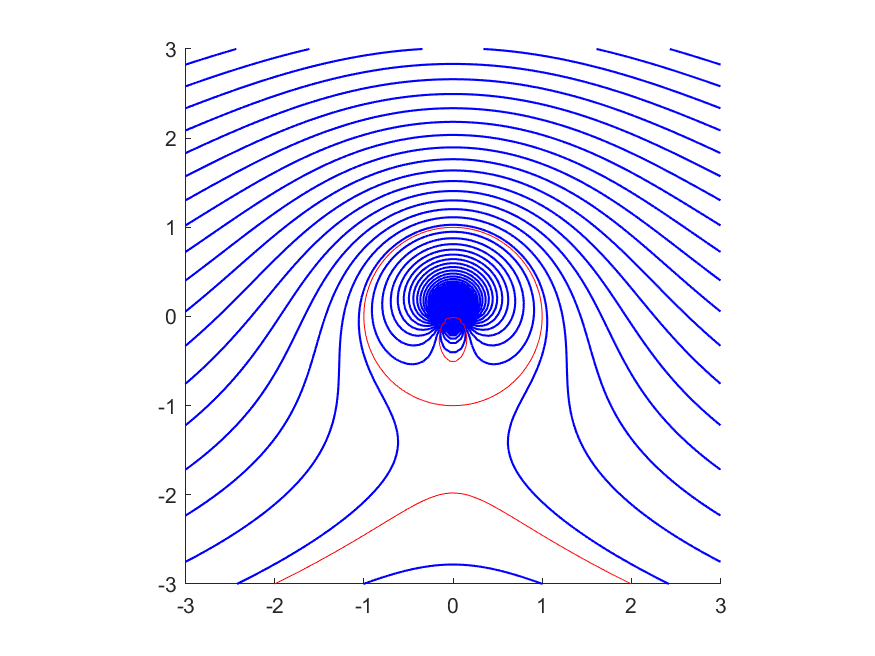
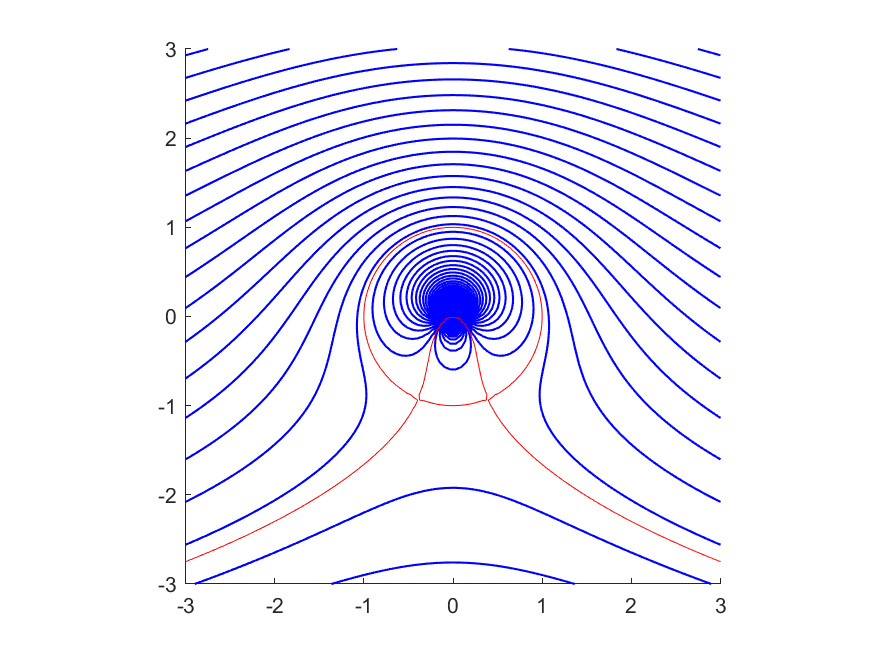
update

diff --git a/Flow_at_wall_angle.m b/Flow_at_wall_angle.m
@@ -5,20 +5,20 @@ rho = linspace(0.001, 3, 20);
 
 [THETA, RHO] = meshgrid(theta, rho);
 A = 1;
-n = 0.5;
+n = 2;
 psi = A*(RHO.*n).*sin(n.*THETA);
 phi = A*(RHO.*n).*cos(n.*THETA);
 
 X = RHO.*cos(THETA);
 Y = RHO.*sin(THETA);
 
-% figure1 = figure; 
+figure1 = figure; 
 h = polar(X, Y);
 hold all;
 contour(X, Y, psi, 20, '-b', linewidth=2);
-contour(X, Y, phi, 20, '--r', linewidth=2);
+% contour(X, Y, phi, 20, '--r', linewidth=2);
 set(h,'Visible','off')
 axis off
 axis image
-% saveas(figure1,'finename.png')
+saveas(figure1,'flow_past_a_90degree_wall.png')
 

diff --git a/flow_past_a_half_body.m b/flow_past_a_half_body.m
@@ -14,15 +14,15 @@ phi = U*R.*cos(Theta) + (m/(2*pi))*log(R) ;
 
 
 
-% figure1 = figure; 
+figure1 = figure; 
 
 hold all;
-contour(X, Y, psi, 100, '-b', linewidth=1);
+contour(X, Y, psi, 99, '-b', linewidth=1);
 plot(-2.5/pi, 0, '-ro')
-% contour(X, Y, phi, 20, '--r', linewidth=2);
+% contour(X, Y, phi, 99, '--r', linewidth=2);
 pbaspect([1 1 1]);
-% set(h,'Visible','off')
-% axis off
-% axis image
-% saveas(figure1,'finename.png')
+
+axis off
+axis image
+saveas(figure1,'flow_past_a_half_body.png')
 

diff --git a/flow_past_a_cylinder_with_circulation.m b/flow_past_a_cylinder_with_circulation.m
@@ -6,7 +6,7 @@ x = linspace(-3, 3, 100);
 [X, Y] = meshgrid(x, y);
 U = 1;
 a = 1;
-gamma = 4*pi*a*U + 1 ;
+gamma = 4*pi*a*U - 1 ;
 
 R = sqrt(X.^2 + Y.^2) ;
 Theta = atan2(Y, X) ;
@@ -22,7 +22,7 @@ hold all;
 contour(X, Y, psi, 99, '-b', linewidth=1);
 hold on; hold all; 
 contour(X,Y, psi, [0 0 ], '-r')
-% contour(X, Y, phi, 100, '--r', linewidth=2);
+% contour(X, Y, phi, 100, '--g', linewidth=2);
 pbaspect([1 1 1]);
 axis image
 saveas(figure1,'flow_past_a_cylinder_with_circulation.png')

diff --git a/Irrotational_vortex.m b/Irrotational_vortex.m
@@ -1,3 +1,5 @@
+clear;
+clc;
 y = linspace(-1, 1, 100);
 x = linspace(-1, 1, 100);
 
@@ -13,8 +15,7 @@ hold all;
 contour(X, Y, psi, 20, '-b', linewidth=2);
 contour(X, Y, phi, 20, '--r', linewidth=2);
 pbaspect([1 1 1]);
-% set(h,'Visible','off')
 % axis off
 % axis image
-% saveas(figure1,'finename.png')
+% saveas(figure1,'irrotational_vortex.png')
 

diff --git a/flow_past_a_cylinder.m b/flow_past_a_cylinder.m
@@ -14,7 +14,7 @@ phi = U*(R + (a^2)./R).*cos(Theta);
 
 
 
-% figure1 = figure; 
+figure1 = figure; 
 
 hold all;
 contour(X, Y, psi, 100, '-b', linewidth=1);
@@ -24,5 +24,5 @@ contour(X, Y, psi, [0 0]);
 pbaspect([1 1 1]);
 axis off
 axis image
-% saveas(figure1,'finename.png')
+saveas(figure1,'flow_past_a_cylinder.png')
 

diff --git a/doublet_flow.m b/doublet_flow.m
@@ -11,7 +11,7 @@ phi =  X./(X.^2 + Y.^2) ;
 psi =  -Y./(X.^2 + Y.^2) ;
 
 
-% figure1 = figure; 
+figure1 = figure; 
 
 hold all;
 contour(X, Y, psi, 49, '-b', linewidth=2);
@@ -20,5 +20,5 @@ pbaspect([1 1 1]);
 
 % axis off
 % axis image
-% saveas(figure1,'finename.png')
+saveas(figure1,'doublet.png')
 

diff --git a/Source_Sink.m b/Source_Sink.m
@@ -19,5 +19,5 @@ contour(X, Y, phi, 20, '--r', linewidth=2);
 set(h,'Visible','off')
 axis off
 axis image
-% saveas(figure1,'finename.png')
+% saveas(figure1,'Source_Sink.png')
 
